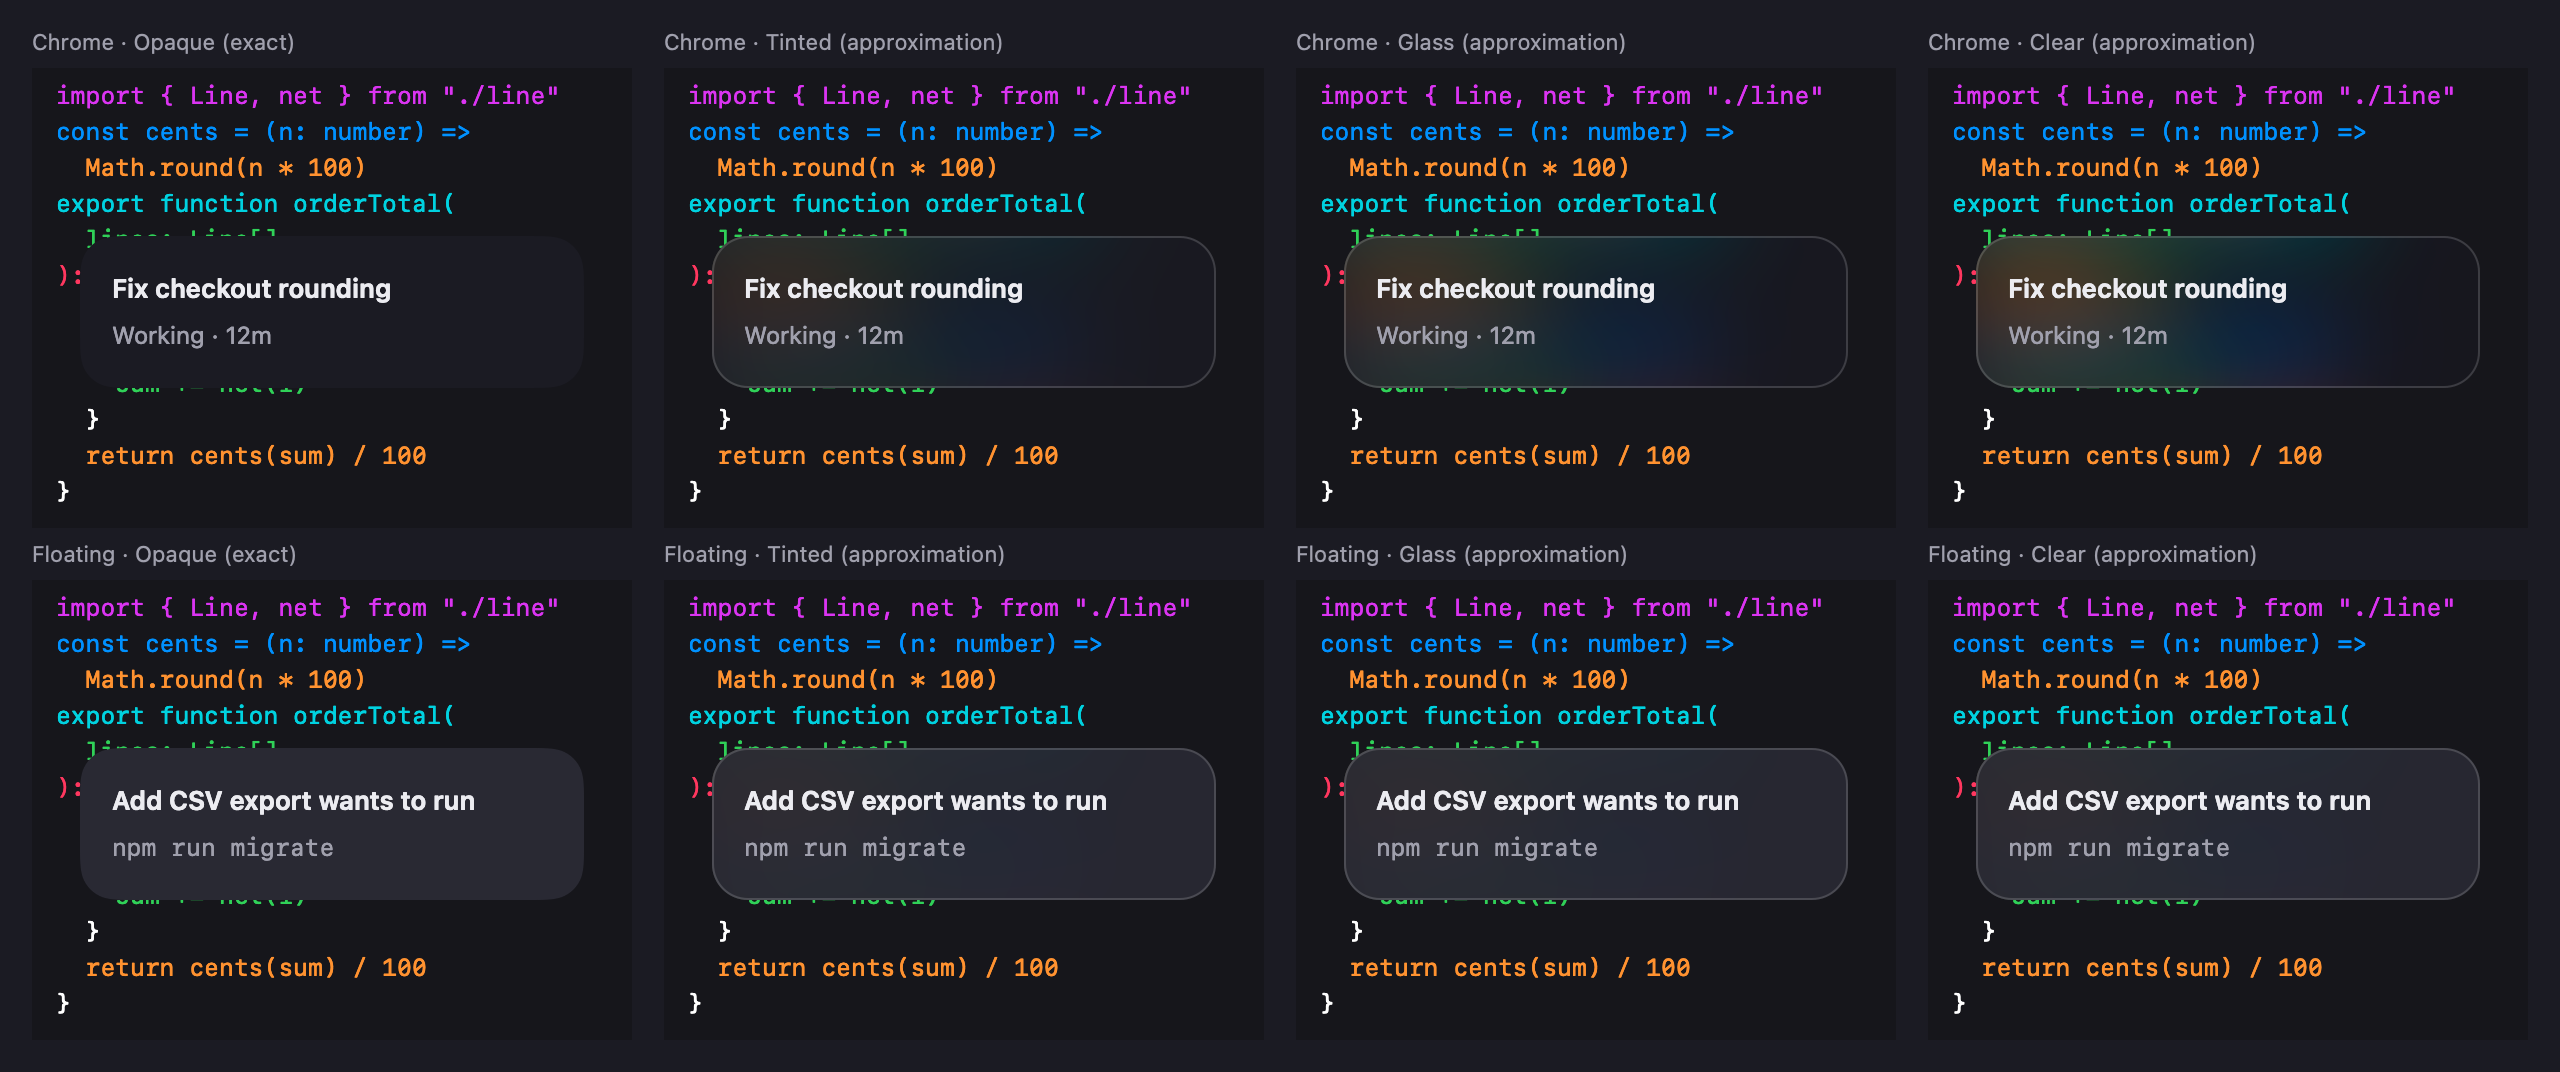
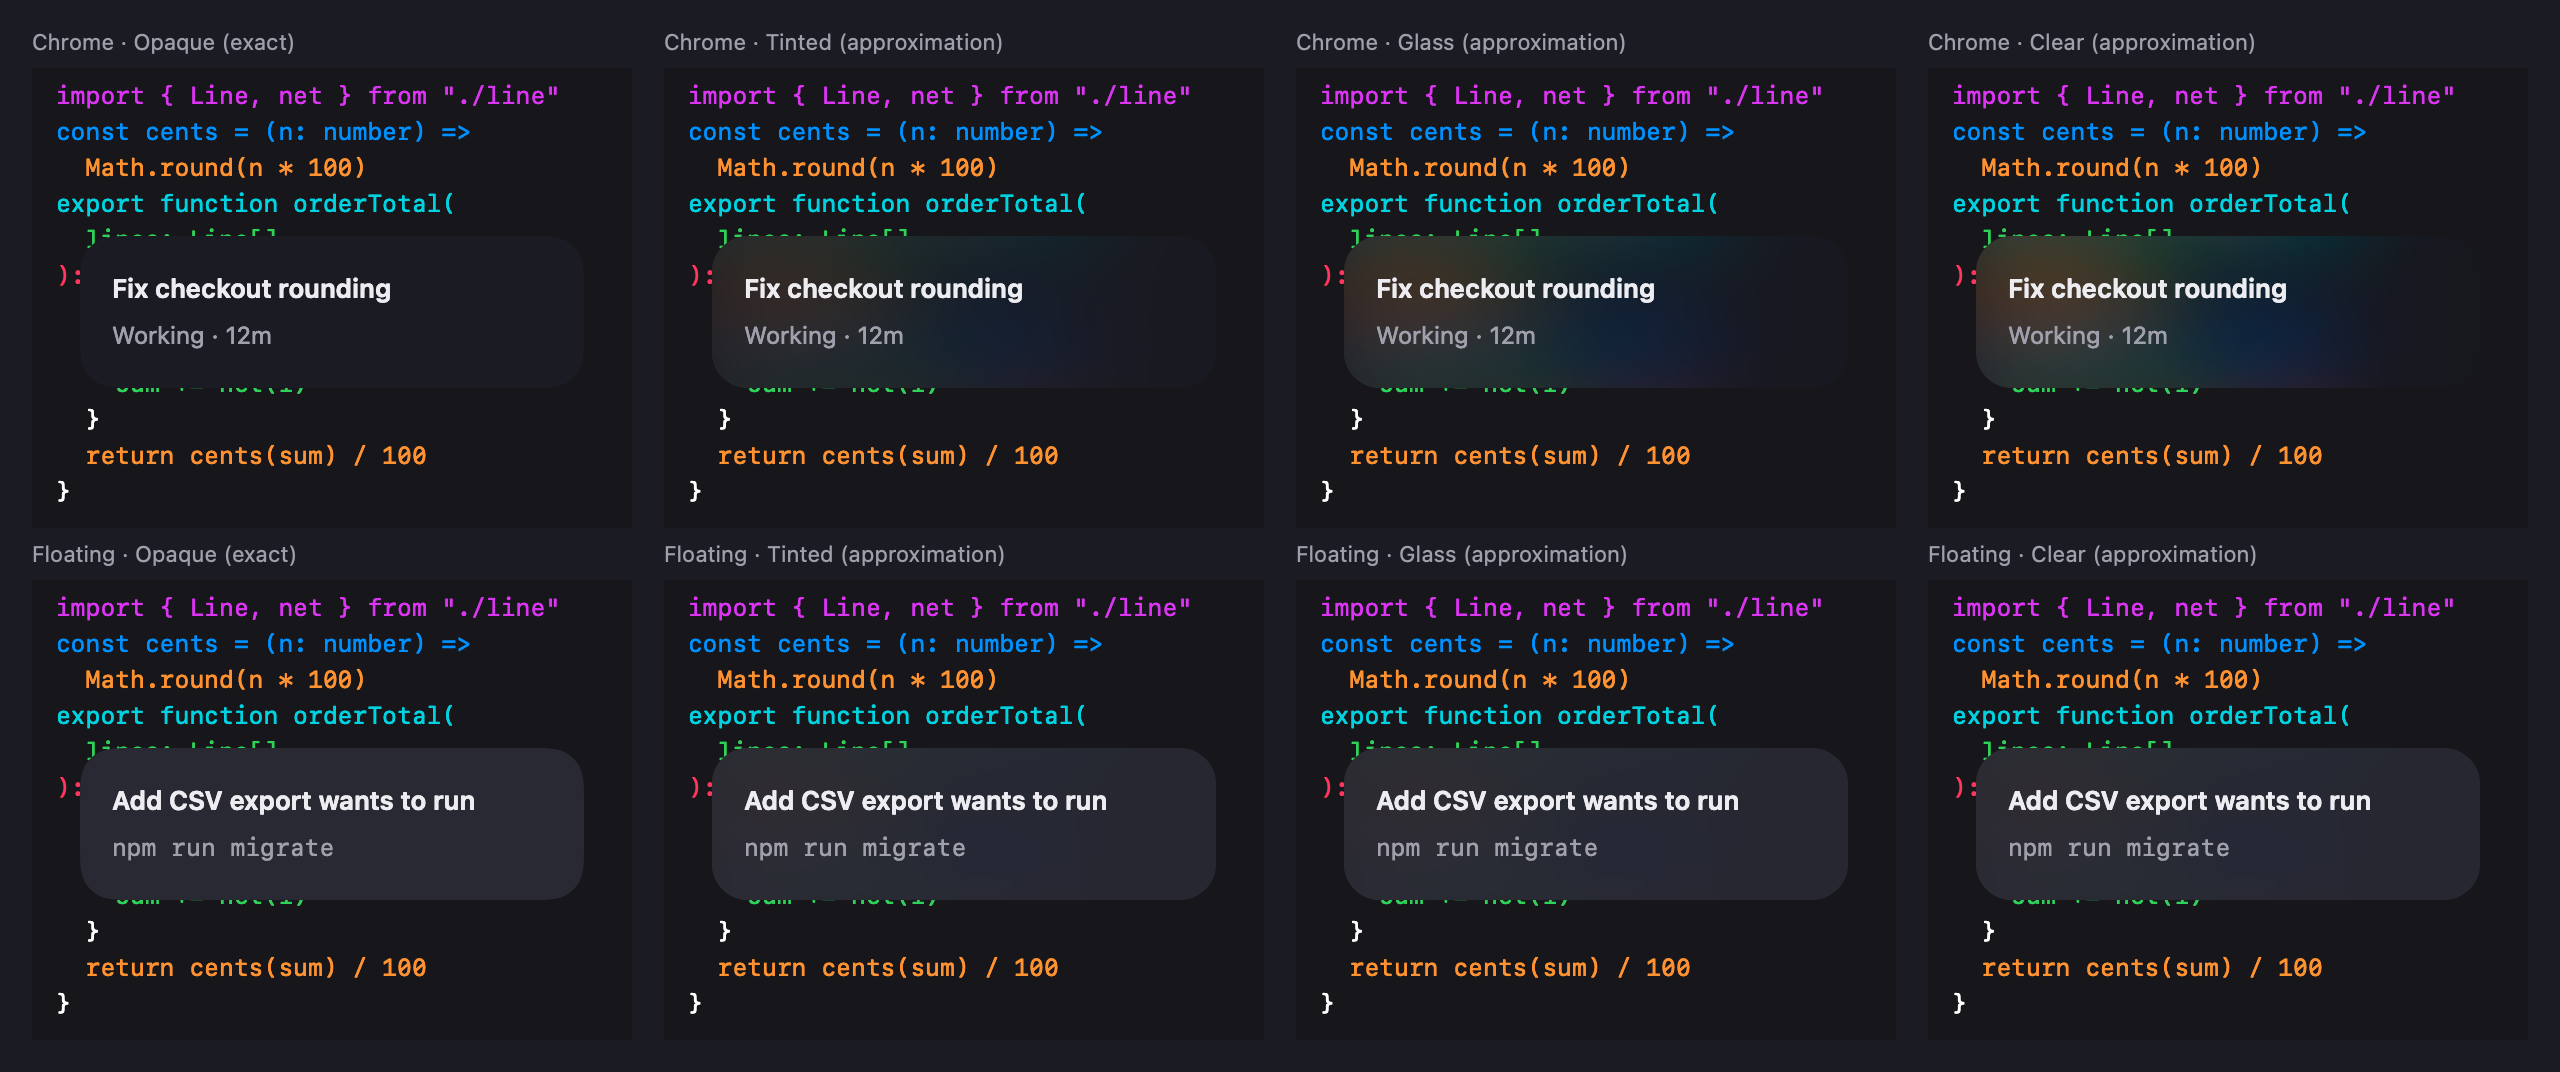
fix(design): the glass view keeps the keyboard and follows accessibility live
From the adversarial review: moving the content into or out of macOS 26's
glass took it out of the window and dropped the focus (now restored, a field
rather than its field editor) and left it laid out by constraints; the view
reads the user's level and follows Reduce transparency and Increase contrast
as they change; the render no longer draws a rim the frost doesn't have.

diff --git a/Sources/Nirux/Views/GlassView.swift b/Sources/Nirux/Views/GlassView.swift
@@ -7,8 +7,10 @@ import AppKit
 ///
 /// The tints are provisional: offscreen renders can't show the glass (the
 /// window server draws it), so they get tuned with the user on a demo at the
-/// end of phase 2. The frost blends within the window: the desktop shows
-/// through only once the window itself turns translucent (plan step 4.2).
+/// end of phase 2. The frost blends within the window; the translucent
+/// window (plan step 4.2) moves the chrome to blending behind it, and a
+/// floating glass in a window of its own (⌘P if it stays a panel) needs the
+/// same and no layer shadow: step 2.4 adds that if it does.
 final class GlassView: NSView {
     enum Role: Sendable {
         /// The sidebar, the command bar, the rail: it follows the level.
@@ -29,8 +31,9 @@ final class GlassView: NSView {
     /// macOS 26's glass, which adapts it to what shows through.
     let contentView = NSView()
 
-    /// The level to draw, already made opaque where macOS asks
-    /// (`InterfaceTransparency.effectiveNow`).
+    /// The level the user picked. The view draws it made opaque where macOS
+    /// asks (Reduce transparency, Increase contrast), and follows those
+    /// settings as they change.
     var level: InterfaceTransparency {
         didSet { if level != oldValue { update() } }
     }
@@ -61,6 +64,14 @@ final class GlassView: NSView {
         shadowMask.fillRule = .evenOdd
         shadowLayer.mask = shadowMask
         layer?.insertSublayer(shadowLayer, at: 0)
+        update()
+        NSWorkspace.shared.notificationCenter.addObserver(
+            self, selector: #selector(accessibilityDisplayOptionsChanged),
+            name: NSWorkspace.accessibilityDisplayOptionsDidChangeNotification, object: nil
+        )
+    }
+
+    @objc private func accessibilityDisplayOptionsChanged(_ notification: Notification) {
         update()
     }
 
@@ -98,19 +109,25 @@ final class GlassView: NSView {
     /// Rebuilds the backing only when its kind changes; a new tint, style or
     /// radius is applied in place.
     private func update() {
-        let wanted = Self.backing(for: level, hasGlass: Self.hasGlass)
+        let wanted = Self.backing(for: level.effectiveNow(), hasGlass: Self.hasGlass)
         if wanted != backing { rebuild(wanted) }
         applyStyle()
         applyShape()
     }
 
     private func rebuild(_ wanted: Backing) {
+        // Moving the content between the glass and this view takes it out of
+        // the window for a moment: keep the keyboard where it was.
+        let focused = Self.focusedView(in: window).flatMap { $0.isDescendant(of: contentView) ? $0 : nil }
+        defer { if let focused, focused.window != nil, focused.window?.firstResponder !== focused { focused.window?.makeFirstResponder(focused) } }
         if #available(macOS 26, *), let glass = backingView as? NSGlassEffectView { glass.contentView = nil }
         backingView?.removeFromSuperview()
         tintView?.removeFromSuperview()
         backingView = nil
         tintView = nil
         if contentView.superview !== self {
+            // The glass laid it out with constraints; here it follows frames.
+            contentView.translatesAutoresizingMaskIntoConstraints = true
             contentView.frame = bounds
             addSubview(contentView)
         }
@@ -149,6 +166,14 @@ final class GlassView: NSView {
     /// Whether the floating shadow shows (for the tests).
     var castsShadow: Bool { !shadowLayer.isHidden && shadowLayer.shadowOpacity > 0 }
 
+    /// The view holding the keyboard: a text field rather than the field
+    /// editor that edits it for the moment.
+    private static func focusedView(in window: NSWindow?) -> NSView? {
+        let responder = window?.firstResponder
+        if let editor = responder as? NSTextView, editor.isFieldEditor, let field = editor.delegate as? NSView { return field }
+        return responder as? NSView
+    }
+
     private func install(_ view: NSView) {
         view.autoresizingMask = [.width, .height]
         addSubview(view, positioned: .below, relativeTo: contentView)
@@ -156,6 +181,7 @@ final class GlassView: NSView {
     }
 
     private func applyStyle() {
+        let level = self.level.effectiveNow()
         let tint = Self.tintColor(for: role).withAlphaComponent(Self.tintAlpha(for: level, role: role))
         layer?.backgroundColor = backing == .solid ? tint.cgColor : nil
         tintView?.layer?.backgroundColor = tint.cgColor

diff --git a/docs/design/glass-interface.md b/docs/design/glass-interface.md
@@ -62,7 +62,11 @@ the floating shadow (left to the system on macOS 26). The tints are
 provisional: an offscreen capture can't show either material, so the render
 below approximates them (the content under the panel blurred, then the
 view's tint) beside the exact Opaque render, and they get tuned with the user
-on a demo at the end of phase 2.
+on a demo at the end of phase 2. The view follows macOS's Reduce transparency and Increase
+contrast as they change, and keeps the keyboard where it was when its content
+moves into or out of macOS 26's glass. A floating glass in a window of its
+own (⌘P if it stays a panel) needs blending behind the window and no layer
+shadow: step 2.4 adds that if it does.
 
 ![The glass at each level: Opaque exact, the others approximated](../images/glass-levels.png)
 
